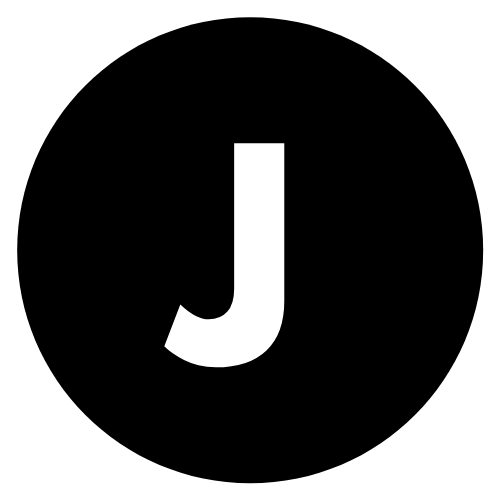
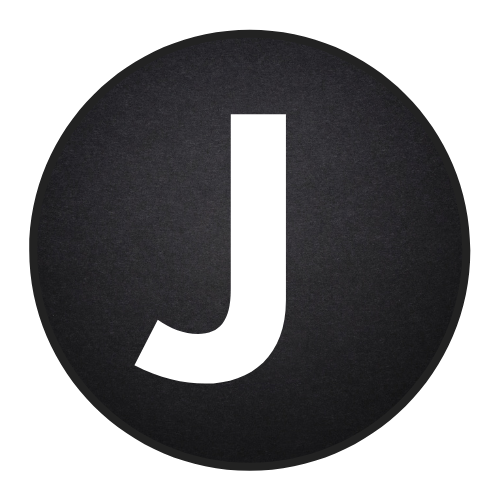
update

diff --git a/src/layout/hero.js b/src/layout/hero.js
@@ -174,6 +174,38 @@ const MainHeading = styled("div")(({ theme }) => ({
     alignItems: "center",
     textAlign: "center",
     paddingLeft: 0,
+    fontSize: 28,
+    fontWeight: 700,
+  },
+  [theme.breakpoints.down("sm")]: {
+    width: "100%",
+    justifyContent: "center",
+    alignItems: "center",
+    textAlign: "center",
+    paddingLeft: 0,
+    fontSize: 25,
+    fontWeight: 700,
+  },
+}));
+
+const SubHeading = styled("div")(({ theme }) => ({
+  fontFamily: "Roboto",
+  backgroundImage: "linear-gradient(90deg, #222 0%, #222 100%)",
+  backgroundSize: "100%",
+  backgroundClip: "text",
+  WebkitTextFillColor: "transparent",
+  width: 600,
+  textAlign: "left",
+  paddingLeft: 40,
+  fontWeight: 700,
+  lineHeight: 1.5,
+  fontSize: 25,
+  [theme.breakpoints.down("md")]: {
+    width: "100%",
+    justifyContent: "center",
+    alignItems: "center",
+    textAlign: "center",
+    paddingLeft: 0,
     fontSize: 25,
     fontWeight: 700,
   },
@@ -230,7 +262,7 @@ function Hero() {
         <ArtWrap>
           <Art>
             <img
-              src="/assets/noblehero.png"
+              src="/assets/headshot.png"
               width="100%"
               height="100%"
               alt="One"
@@ -240,13 +272,10 @@ function Hero() {
         </ArtWrap>
         <Description>
           <Grid class="animate__animated animate__slideInLeft">
-            <MainHeading>
-              Modern Wealth Management
-              <br />
-              Studio For All
-            </MainHeading>
+            <MainHeading>Senior Full Stack Engineer</MainHeading>
+            <SubHeading>Front End : Back End : DevOps</SubHeading>
             <Paragraph>
-              protect and maximize your overall financial health
+              Check out my latest project and resume below
               <br />
             </Paragraph>
           </Grid>
@@ -256,30 +285,34 @@ function Hero() {
                 disableRipple
                 variant="outlined"
                 onClick={() =>
-                  openInNewTab("https://explorers.multivurse.com/")
+                  openInNewTab(
+                    "https://firebasestorage.googleapis.com/v0/b/site-360ad.appspot.com/o/Resume.pdf?alt=media&token=b6ba2bea-f789-48b6-9d2a-d971608cd4a8"
+                  )
                 }
               >
-                Get Started
+                Resume
               </MainButton>
             </Container>
-            {/* <Container class="animate__animated animate__slideInLeft">
+            <Container class="animate__animated animate__slideInLeft">
               <MainButton
                 disableRipple
                 variant="outlined"
-                onClick={() => openInNewTab("https://creators.multivurse.com/")}
+                onClick={() => openInNewTab("https://multivurse.com/")}
               >
-                Creators
+                Latest project
               </MainButton>
-            </Container> */}
+            </Container>
             <Container class="animate__animated animate__slideInLeft">
               <MainButton
                 disableRipple
                 variant="outlined"
                 onClick={() =>
-                  openInNewTab("https://twitter.com/multivurse_art")
+                  openInNewTab(
+                    "https://www.upwork.com/freelancers/~0144e39f7980edb847"
+                  )
                 }
               >
-                Learn More
+                Freelance work
               </MainButton>
             </Container>
           </Buttons>

diff --git a/src/layout/header.js b/src/layout/header.js
@@ -58,13 +58,7 @@ function Header() {
         <Navbar.Brand href="/">
           <Grid container fluid>
             <div style={namecontainer} variant="rounded">
-              <img
-                src="/assets/noble.png"
-                width="20%"
-                height="80%"
-                alt="logo"
-              />
-              &nbsp; Nebula Wealth
+              Jonathan
             </div>
           </Grid>
         </Navbar.Brand>
@@ -82,16 +76,16 @@ function Header() {
           <Grid container style={{ marginTop: 25 }} />
           <Nav>
             <NavLink style={navLinkStyles} href="#company">
-              <NavTitle>Clients</NavTitle>
+              <NavTitle>Portfolio</NavTitle>
             </NavLink>
             <NavLink style={navLinkStyles} href="#mission">
-              <NavTitle>Management</NavTitle>
+              <NavTitle>Expertise</NavTitle>
             </NavLink>
             <NavLink style={navLinkStyles} href="#leadership">
-              <NavTitle>Services</NavTitle>
+              <NavTitle>Skills</NavTitle>
             </NavLink>
             <NavLink style={navLinkStyles} href="#investors">
-              <NavTitle>Plans</NavTitle>
+              <NavTitle>Contact</NavTitle>
             </NavLink>
           </Nav>
         </Navbar.Collapse>

diff --git a/public/index.html b/public/index.html
@@ -3,15 +3,15 @@
 
 <head>
   <meta charset="utf-8" />
-  <link rel="icon" href="%PUBLIC_URL%/assets/noblefav.png" />
+  <link rel="icon" href="%PUBLIC_URL%/assets/J.png" />
   <link rel="stylesheet" href="https://fonts.googleapis.com/css?family=Roboto:300,400,500,700&display=swap" />
   <link rel="stylesheet" href="https://fonts.googleapis.com/icon?family=Material+Icons" />
   <meta name="viewport" content="width=device-width, initial-scale=1" />
   <meta name="theme-color" content="#000000" />
-  <meta name="description" content="Modern Investment Services for Alternative Assets" />
-  <link rel="apple-touch-icon" href="%PUBLIC_URL%/assets/noblefav.png" />
+  <meta name="description" content="Jonathan Daniels: Senior Full Stack Software Engineer" />
+  <link rel="apple-touch-icon" href="%PUBLIC_URL%/assets/J.png" />
   <link rel="manifest" href="%PUBLIC_URL%/manifest.json" />
-  <title>Noblealts</title>
+  <title>Jonathan Daniels</title>
 </head>
 
 <body>

diff --git a/src/layout/footer.js b/src/layout/footer.js
@@ -52,7 +52,7 @@ function Footer() {
                           marginRight: 50,
                         }}
                       >
-                        NOBLEALTS
+                        NEBULA
                       </h6>
                       <hr
                         style={{
@@ -70,7 +70,7 @@ function Footer() {
               <Grid container spacing={3} justifyContent="center">
                 <Grid item>
                   <Link href="">
-                    <img src="/assets/noble.png" height="60" alt="logo"></img>
+                    <img src="/assets/Nebula.png" height="60" alt="logo"></img>
                   </Link>
                 </Grid>
               </Grid>
